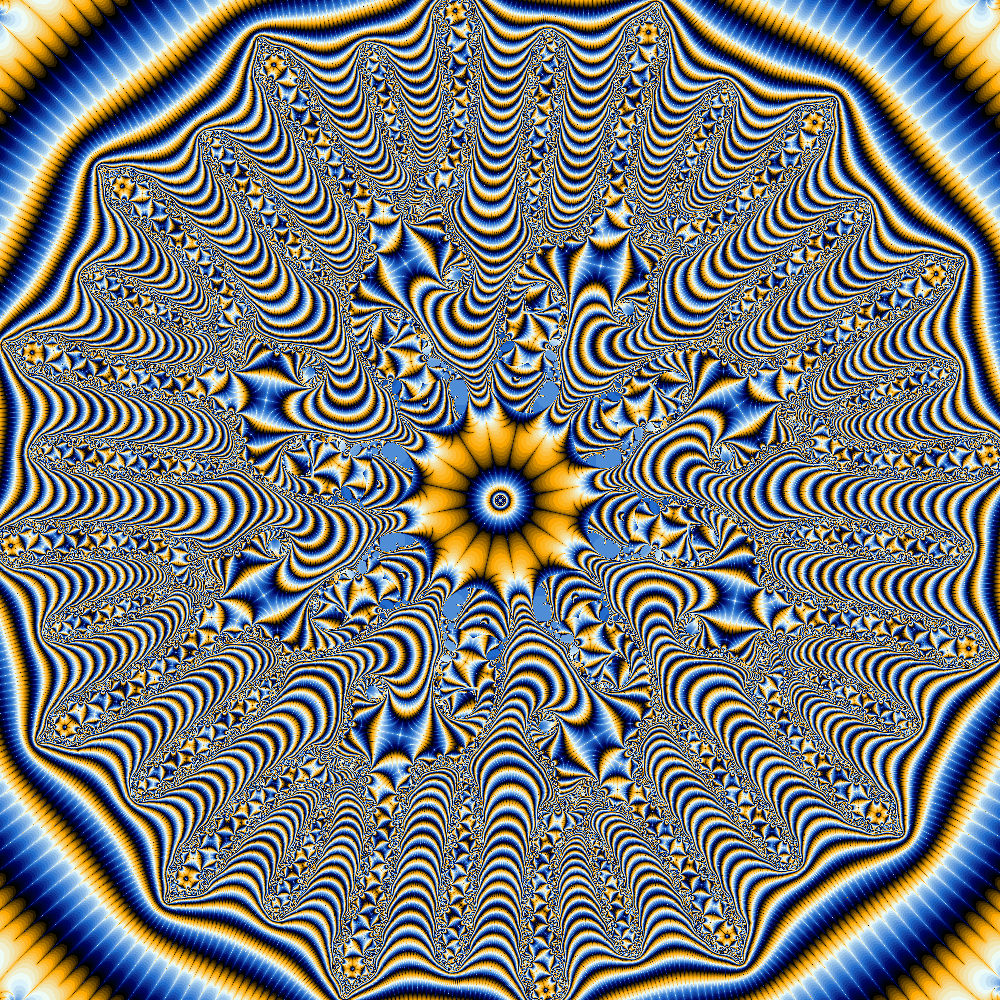
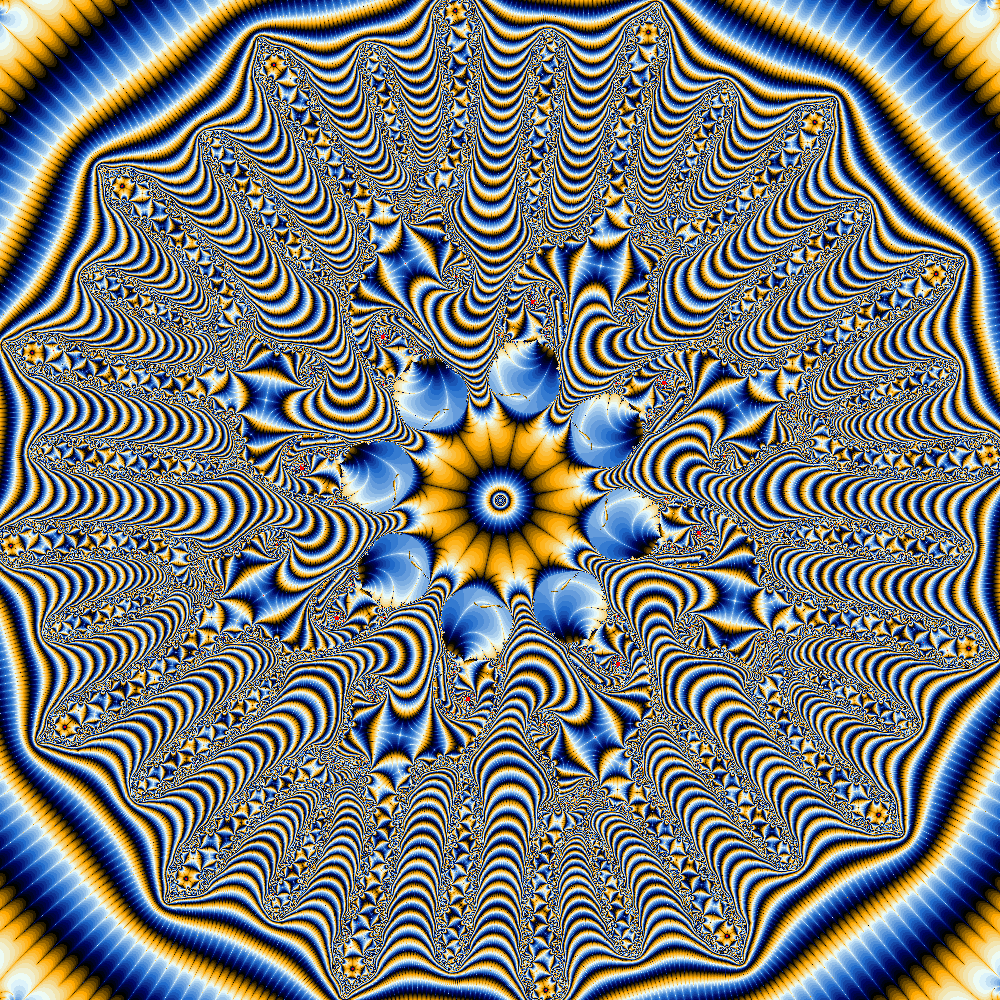
further optimisation

diff --git a/src/renderer.rs b/src/renderer.rs
@@ -6,7 +6,6 @@ use std::cmp::{min, max};
 use std::f64::consts::LOG2_10;
 
 use rand::seq::SliceRandom;
-use itertools::Itertools;
 use rayon::prelude::*;
 
 pub struct FractalRenderer {
@@ -102,12 +101,10 @@ impl FractalRenderer {
 
         let time = Instant::now();
 
-        let indices = (0..self.image_width).cartesian_product(0..self.image_height).collect::<Vec<(usize, usize)>>();
-
-        let mut pixel_data = Vec::with_capacity(self.image_width * self.image_height);
-
-        pixel_data = indices.into_par_iter()
-            .map(|(i, j)| {
+        let mut pixel_data = (0..(self.image_width * self.image_height)).into_par_iter()
+            .map(|index| {
+                let i = index % self.image_width;
+                let j = index / self.image_width;
                 let element = ComplexFixed::new(i as f64 * delta_pixel + delta_top_left.re, j as f64 * delta_pixel + delta_top_left.im);
                 let point_delta = ComplexExtended::new(element, -self.zoom.exponent);
                 let new_delta = series_approximation.evaluate(point_delta);
@@ -157,17 +154,15 @@ impl FractalRenderer {
 
             // this can be made faster, without having to do the series approximation again
             // this is done by storing more data in pixeldata2
-            pixel_data.chunks_mut(1)
-                        .for_each(|pixel_data| {
-                            for data in pixel_data {
-                                data.iteration = reference.start_iteration;
-                                data.glitched = false;
-                                data.delta_current = data.delta_start - delta_z;
-                                data.delta_reference = data.delta_centre - reference_wrt_sa;
-                                // might not need the evaluate here as if we store it separately, there is no need
-                                // data.derivative_current = ComplexFixed::new(1.0, 0.0);
-                            }
-                        });
+            pixel_data.par_iter_mut()
+                .for_each(|pixel| {
+                    pixel.iteration = reference.start_iteration;
+                    pixel.glitched = false;
+                    pixel.delta_current = pixel.delta_start - delta_z;
+                    pixel.delta_reference = pixel.delta_centre - reference_wrt_sa;
+                        // might not need the evaluate here as if we store it separately, there is no need
+                        // data.derivative_current = ComplexFixed::new(1.0, 0.0);
+                });
 
             Perturbation::iterate(&mut pixel_data, &r, r.current_iteration);
 

diff --git a/src/bin/main.rs b/src/bin/main.rs
@@ -59,8 +59,8 @@ fn main() {
         iterations.parse::<usize>().unwrap(),
         center_re,
         center_im,
-        0.01,
-        false,
+        0.1,
+        true,
         0
     );
 
